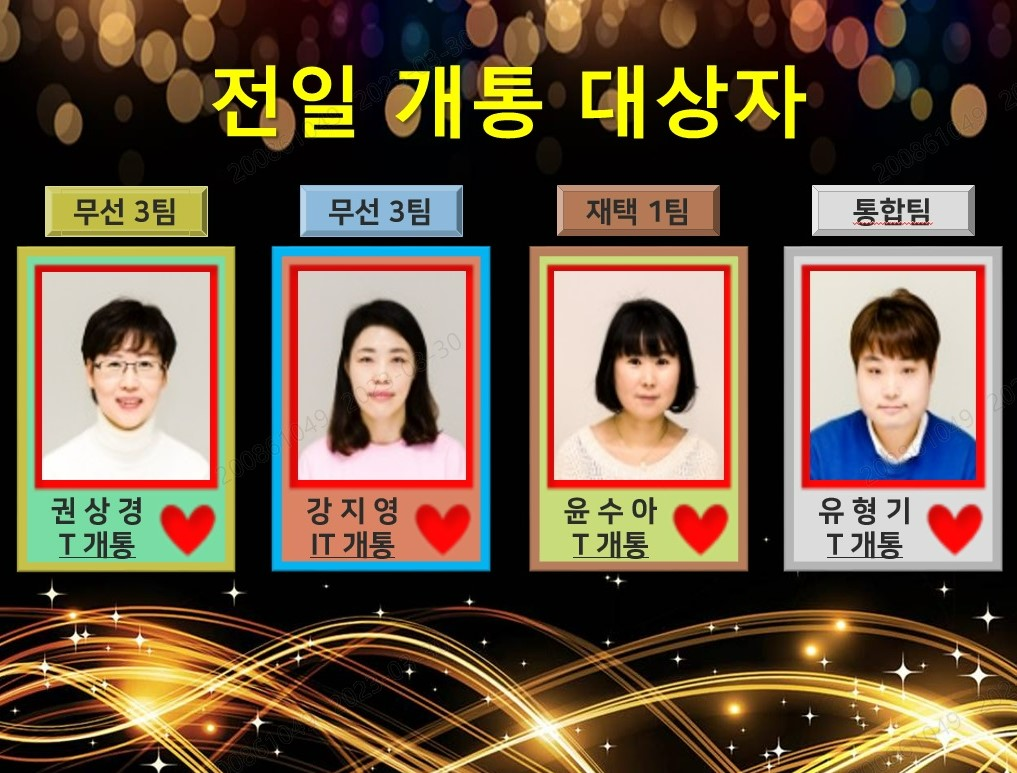
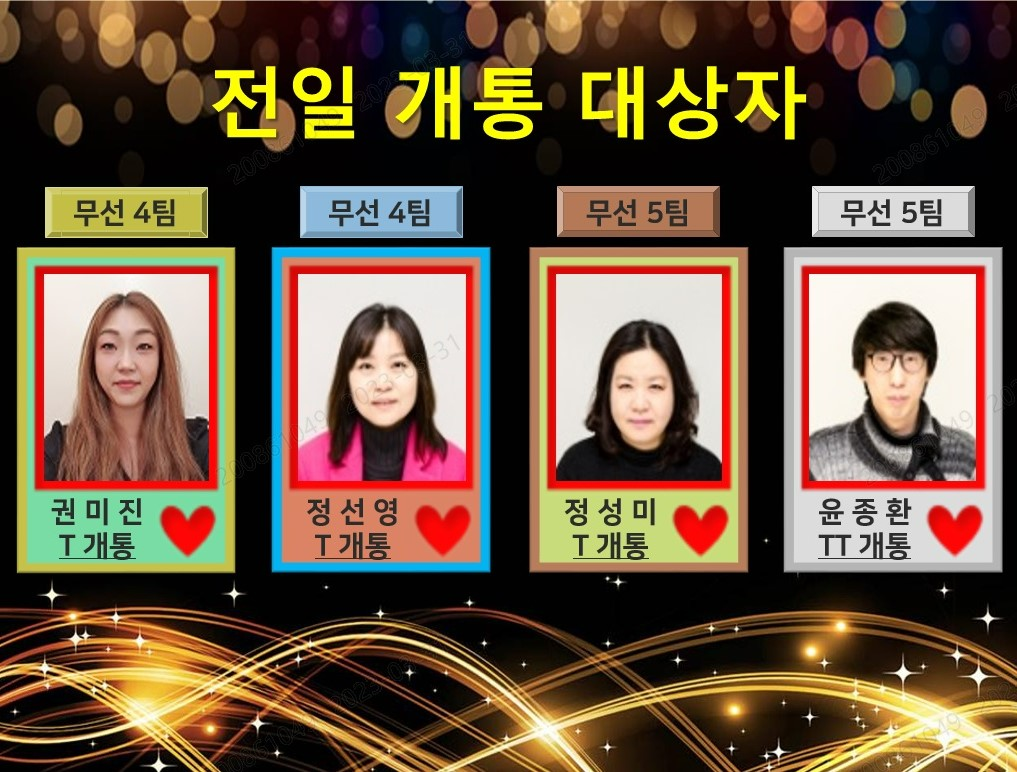
dd

diff --git a/html/board.html b/html/board.html
@@ -51,7 +51,7 @@
    <img class="worktime" src="../imgfolder/근무/세일즈 전광판_센터실적.jpg" >
    <img class="worktime" src="../imgfolder/근무/세일즈 전광판_전일개통인원-1.jpg" >
    <img class="worktime" src="../imgfolder/근무/세일즈 전광판_전일개통인원-2.jpg" >
-
+   <img class="worktime" src="../imgfolder/근무/세일즈 전광판_전일개통인원-3.jpg" >
    <img class="worktime" src="../imgfolder/근무/호전환0326.png" >
    
    
